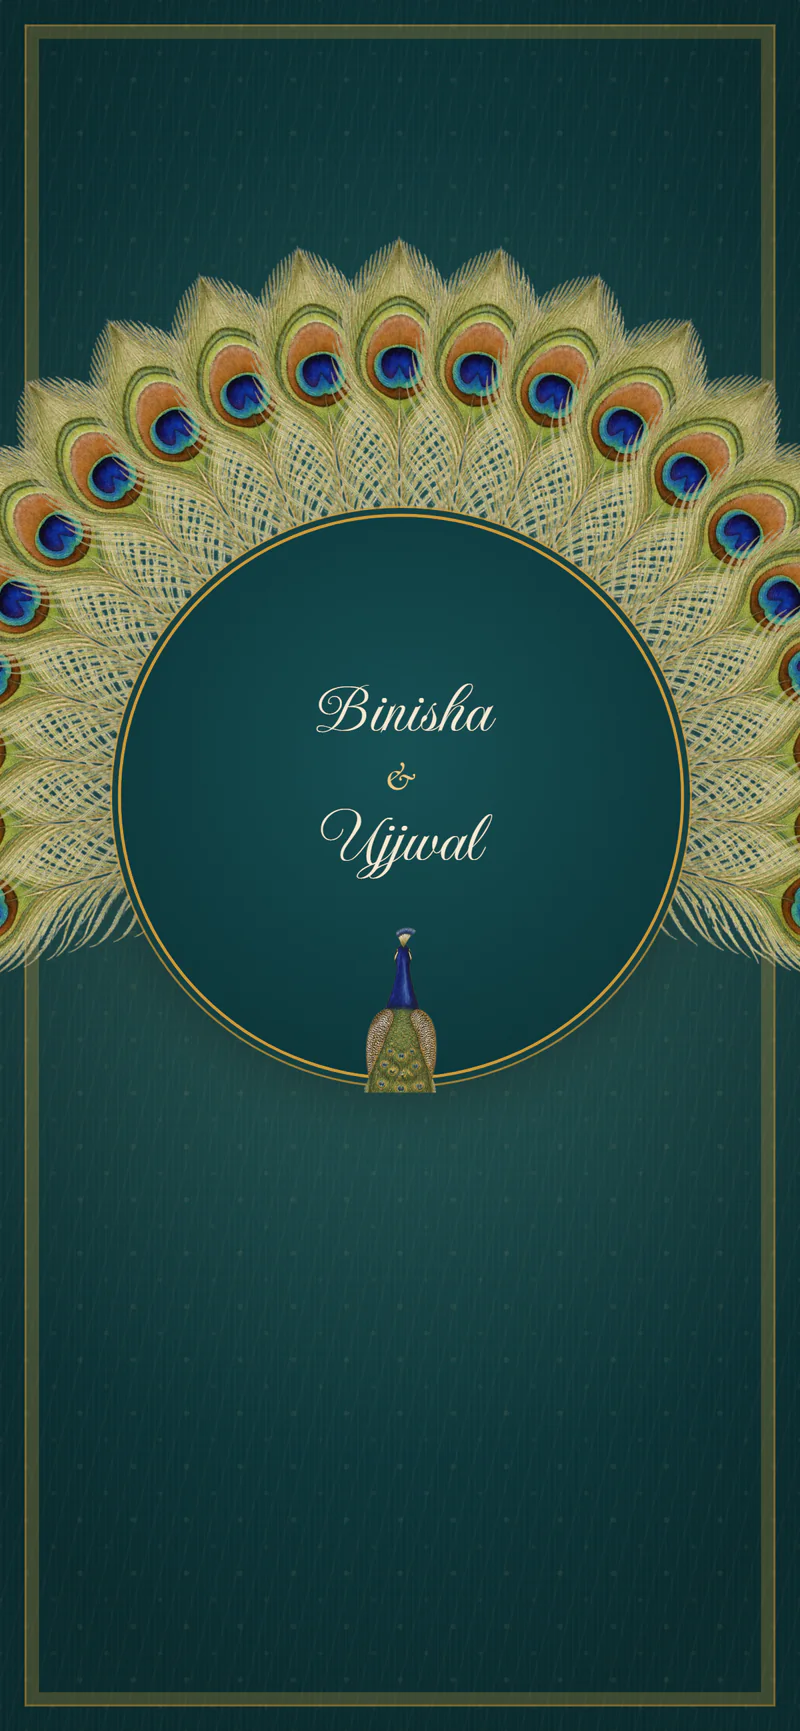
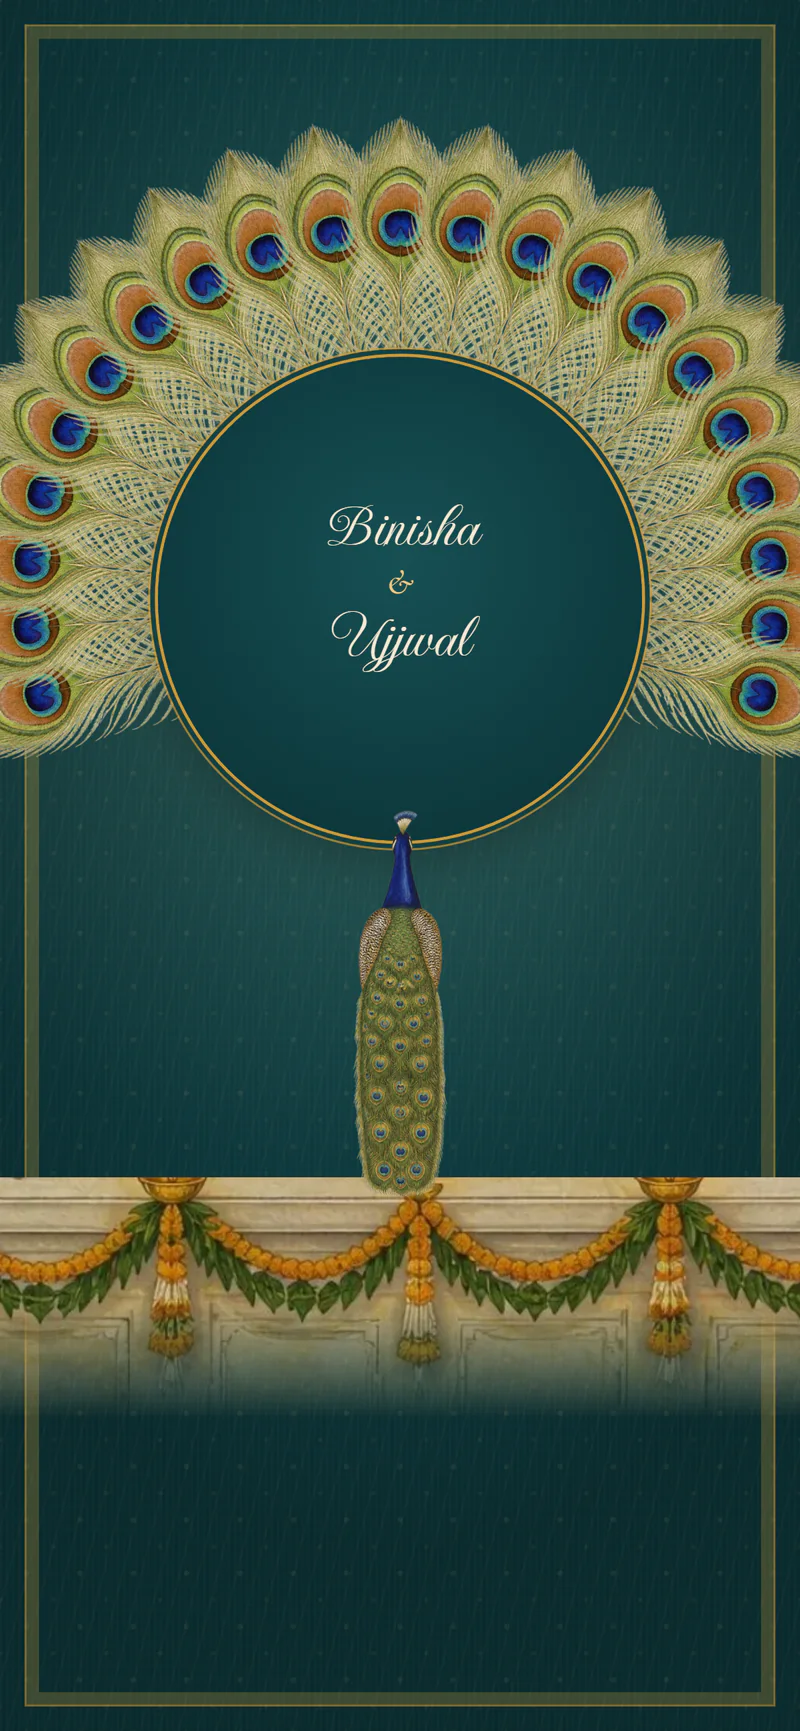
fix(kalapi): fuller phone opening and first screen, a miniature per ceremony, labels on the lower border
- Opening: fan, bird and a painted marble parapet with marigold garlands stack to fill the screen; the
  whole peacock stands on the parapet and the feathers rise from its back; a quiet "Tap the peacock" cue.
- Phones: the palace in the rain above the names on the first screen, fading into the cloth.
- Ceremony cards: a pichwai miniature per kind (haldi, mehendi, janti, wedding, reception; others get
  the palace), filling the frame; painted crops can no longer leave a gap.
- Folio labels ride on the lower border, clear of the language and menu buttons.
- theme-meta test: Kalapi is Hindu only.

diff --git a/src/themes/kalapi/main.js b/src/themes/kalapi/main.js
@@ -60,9 +60,19 @@ const cusp = (cls = '') => `<svg class="kp-cusp ${cls}" viewBox="0 0 100 130" pr
 const rule = (cls = '') => `<span class="kp-rule ${cls}" aria-hidden="true"><i></i><b></b><i></i></span>`;
 
 /** a crop of one of the paintings, centred on (cx, cy) of the picture, `z` times the window's width */
-const vignette = (n, cx, cy, z = 2.8, cls = '', flip = false) => `<span class="kp-vig ${cls}" aria-hidden="true" style="--cx:${cx};--cy:${cy};--z:${z}${flip ? ';--fx:-1' : ''}">${art(`pano-${n}`, 'pano', '(max-width: 760px) 900px, 1000px')}</span>`;
+const vignette = (n, cx0, cy, z = 2.8, cls = '', flip = false) => { const cx = Math.min(1 - 0.5 / z, Math.max(0.5 / z, cx0)); return `<span class="kp-vig ${cls}" aria-hidden="true" style="--cx:${cx};--cy:${cy};--z:${z}${flip ? ';--fx:-1' : ''}">${art(`pano-${n}`, 'pano', '(max-width: 760px) 900px, 1000px')}</span>`; };
 // a different painted detail for each ceremony's miniature (cycled)
-const VIGS = [[1, 0.5, 0.6, 2.6], [2, 0.17, 0.66, 2.6], [5, 0.55, 0.64, 2.5], [4, 0.86, 0.52, 2.6], [1, 0.14, 0.52, 2.8], [2, 0.88, 0.36, 2.8], [4, 0.22, 0.86, 2.6], [5, 0.15, 0.3, 2.8]];
+/** which ceremony is this? → its own painted miniature (ev-<kind>.webp); anything else gets the palace in the rain */
+function kindOf(e) {
+  const t = `${e.id || ''} ${e.title?.en || ''} ${e.title?.ne || ''}`.toLowerCase();
+  if (/mehe?ndi|मेहे?न्दी|henna/.test(t)) return 'mehendi';
+  if (/haldi|hardi|हल्दी|besar|बेसार|pithi/.test(t)) return 'haldi';
+  if (/recep|bhoj|भोज|रिसेप्सन|party|dinner/.test(t)) return 'reception';
+  if (/bibaha|biwaha|vivah|wedding|lagan|विवाह|बिहे|mandap|swayambar|kanyadan/.test(t)) return 'wedding';
+  if (/janti|जन्ती|baraat|barat|बरियात|procession/.test(t)) return 'janti';
+  return '';
+}
+const miniArt = (e) => { const k = kindOf(e); return k ? `<img src="${A}ev-${k}.webp" alt="" loading="lazy" decoding="async" />` : `<img class="is-generic" src="${A}pano-1-sm.webp" alt="" loading="lazy" decoding="async" />`; };
 
 // ───────── the scratch cover: a peacock-feather eye ─────────
 function paintEye(c, w, h, dpr, hint) {
@@ -128,13 +138,13 @@ function page(ctx) {
   /** a painted folio: the painting, its tag, and what sits on it (positioned in the painting's own coordinates) */
   const folio = (i, n, f, over, { id = '', label = '', cls = '' } = {}) => `<article class="kp-folio kp-folio--paint ${cls}"${id ? ` id="${id}"` : ''}${label ? ` aria-labelledby="${label}"` : ''} style="--f:${f}">
       <div class="kp-paint">${art(`pano-${n}`, 'pano', '(max-width: 760px) 1500px, 1700px', { cls: 'kp-paint__img' })}${over}</div>
-      ${tag(i)}
     </article>`;
 
   // ── first screen: the fan's crest on the cloth's border, the names ──
   const hero = `
   <section class="su-hero kp-hero" id="top" aria-label="${esc(`${c.bride.name.en} and ${c.groom.name.en}`)}">
     <div class="kp-hero__cloth" aria-hidden="true"></div>
+    <div class="kp-hero__art" aria-hidden="true"><img src="${A}hero-portrait.webp" alt="" fetchpriority="high" decoding="async" /></div>
     <div class="kp-hem kp-hem--top" aria-hidden="true"></div>
     <div class="kp-crest" aria-hidden="true"><span class="kp-root kp-root--crest">${fan('kp-fan--crest', '24px')}<span class="kp-mono su-in">${esc((c.bride.name.en || '').charAt(0))}<i>·</i>${esc((c.groom.name.en || '').charAt(0))}</span></span></div>
     <div class="kp-hero__in">
@@ -179,11 +189,10 @@ function page(ctx) {
 
   // ── III · the register: one Ragamala-style miniature per ceremony ──
   const minis = P.events.map((ev, i) => {
-    const [n, cx, cy, z] = VIGS[i % VIGS.length];
     const dress = ev.dress.colors.length || ev.dress.text?.en || ev.dress.text?.ne;
     return `<li class="kp-mini" id="ev-${esc(ev.id)}">
       <div class="kp-mini__in">
-        ${vignette(n, cx, cy, z, 'kp-mini__vig')}
+        <span class="kp-mini__vig" aria-hidden="true">${miniArt(ev.e)}</span>
         <p class="kp-mini__no" aria-hidden="true">${ROMAN[i] || i + 1}</p>
         <h3 class="kp-mini__t">${bi(ev.title)}</h3>
         <p class="kp-mini__date">${bi({ en: `${ev.ad.wd.en}, ${ev.ad.day} ${ev.ad.month.en} ${ev.ad.year}`, ne: ev.bs.month && ev.bs.year ? `${ev.ad.wd.ne}, ${ev.bs.month} ${ev.bs.day}, ${ev.bs.year}` : ev.ad.full.ne })}</p>
@@ -206,7 +215,6 @@ function page(ctx) {
         </header>
         <ol class="kp-reg__list">${minis}</ol>
       </div>
-      ${tag(2)}
     </article>` : '';
 
   // ── IV · the moonlit terrace: the countdown in the full moon ──
@@ -227,6 +235,7 @@ function page(ctx) {
       </div>` : '', { cls: 'kp-folio--end' });
 
   const folios = [f1, f2, f3, f4, f5].filter(Boolean).join(seam);
+  const tags = [0, 1, P.events.length ? 2 : -1, 3, 4].filter((i) => i >= 0).map(tag).join('');
   const plume = (k) => `<span class="kp-pl" style="--k:${k}">${art('feather', 'feather', '60px')}</span>`;
   const plumes = (cls, n) => `<div class="kp-plumes ${cls}" aria-hidden="true">${Array.from({ length: n }, (_, i) => plume(i)).join('')}</div>`;
 
@@ -238,7 +247,7 @@ function page(ctx) {
       ${plumes('kp-plumes--top', 9)}
       ${plumes('kp-plumes--bot', 9)}
     </div>
-    <div class="kp-hem kp-hem--bot" aria-hidden="true"><span class="kp-thread"></span></div>
+    <div class="kp-hem kp-hem--bot" aria-hidden="true"><span class="kp-thread"></span><div class="kp-tags">${tags}</div></div>
   </section>`;
 
   // ── the families: two facing miniature panels ──
@@ -327,7 +336,9 @@ const GATE = (ctx) => `
     <div class="kp-g__frame"></div>
     <span class="kp-g__glow"></span>
     <span class="kp-root kp-root--gate">${fan('kp-fan--gate', '(max-width: 760px) 90px, 110px')}</span>
-    <span class="kp-bird"><span class="kp-bird__in"><img class="kp-bird__train" src="${A}peacock.webp" alt="" decoding="async" /><img class="kp-bird__body" src="${A}peacock.webp" alt="" decoding="async" /></span></span>
+    <div class="kp-g__ground"><img src="${A}ground-sm.webp" srcset="${A}ground-sm.webp 1000w, ${A}ground.webp 1920w" sizes="100vw" alt="" decoding="async" /></div>
+    <span class="kp-bird"><span class="kp-bird__in"><img src="${A}peacock.webp" alt="" decoding="async" /></span></span>
+    <p class="kp-g__tap">${ctx.bi({ en: 'Tap the peacock', ne: 'मयूरलाई छुनुहोस्' })}</p>
     <div class="kp-gnames"><p class="su-names kp-names">${ctx.names('&amp;')}</p></div>
   </div>`;
 
@@ -336,12 +347,15 @@ function sizeGate() {
   const g = document.querySelector('.kp-g');
   if (!g) return;
   const vw = innerWidth; const vh = innerHeight;
-  // the fan's top stays on screen and the standing bird stays clear of the buttons (about 186px at the foot)
-  let Lf = Math.min(vw * 0.7, vh * 0.42, 440);
-  let ry = Math.min(Math.max(Lf + 36, vh * 0.46), vh - 186 - Lf * 0.815);
-  if (ry < Lf + 30) { Lf = (vh - 216) / 1.815; ry = Lf + 30; }
+  // top to bottom: the fan (its eye centred at --ry), the bird standing below it on the painted parapet (--fy = its feet),
+  // the parapet, then the buttons (about 160px). The whole stack fills the screen on any size.
+  const UI = 160; const TOP = 56; const GROUND = 100;
+  const Lf = Math.max(150, Math.min(vw * 0.66, (vh - UI - TOP - GROUND) / 2.24, 400));
+  const slack = Math.max(0, vh - UI - TOP - GROUND - 2.24 * Lf);
+  const ry = TOP + Lf + slack * 0.45;
   g.style.setProperty('--L', `${Math.round(Lf)}px`);
   g.style.setProperty('--ry', `${Math.round(ry)}px`);
+  g.style.setProperty('--fy', `${Math.round(ry + 1.24 * Lf)}px`);
 }
 
 // ───────── the cloth: vertical scroll → sideways along the pichwai ─────────
@@ -351,6 +365,7 @@ function cloth(ctx) {
   const view = C.querySelector('.kp-cloth__view');
   const track = C.querySelector('.kp-track');
   const thread = C.querySelector('.kp-thread');
+  const tagsEl = C.querySelector('.kp-tags');
   const top = C.querySelector('.kp-plumes--top');
   const bot = C.querySelector('.kp-plumes--bot');
   const body = document.body;
@@ -381,7 +396,11 @@ function cloth(ctx) {
     });
     return ok;
   };
-  const measure = () => { place(); D = Math.max(0, track.scrollWidth - innerWidth); };
+  const measure = () => {
+    place(); D = Math.max(0, track.scrollWidth - innerWidth);
+    const tg = [...tagsEl.children];
+    track.querySelectorAll(':scope > .kp-folio').forEach((f, i) => { if (tg[i]) tg[i].style.left = `${Math.round(f.offsetLeft + f.offsetWidth / 2)}px`; });
+  };
 
   function build() {
     gc?.revert(); gc = null; st = null;
@@ -393,6 +412,7 @@ function cloth(ctx) {
     gc = gsap.context(() => {
       measure();
       const setThread = gsap.quickSetter(thread, 'scaleX');
+      const setTags = gsap.quickSetter(tagsEl, 'x', 'px');
       const par = wide();
       const setTop = par ? gsap.quickSetter(top, 'x', 'px') : null;
       const setBot = par ? gsap.quickSetter(bot, 'x', 'px') : null;
@@ -403,7 +423,7 @@ function cloth(ctx) {
           onRefreshInit: measure,
           onUpdate(self) {
             const p = self.progress;
-            setThread(p);
+            setThread(p); setTags(-p * D);
             if (par) { setTop(-p * D * 0.9); setBot(-p * D * 1.1); }
           },
         },
@@ -495,10 +515,10 @@ const T = {
     const names = q('.kp-gnames .kp-names');
     const t0 = 0.2;
     // the train lifts: the folded train gathers up into the tail root as the feathers rise out of it
-    tl.to(q('.kp-bird__train'), { scaleY: 0.18, opacity: 0, duration: 0.75, ease: 'power2.in' }, t0);
+    tl.to(q('.kp-g__tap'), { opacity: 0, duration: 0.3, ease: 'power1.out' }, 0);
     // 21 feathers rotate out from the tail root, centre first, 60 ms apart to each side
     const mid = (N - 1) / 2;
-    const rise = () => parseFloat(getComputedStyle(g).getPropertyValue('--L')) * 0.45;
+    const rise = () => parseFloat(getComputedStyle(g).getPropertyValue('--L')) * 0.76; // from the bird's back
     fs.forEach((f, i) => tl.fromTo(f, { y: rise }, { y: 0, rotation: angle(i), scale: 1, opacity: 1, duration: 0.85, ease: 'back.out(1.2)' }, t0 + 0.1 + Math.abs(i - mid) * 0.06));
     // the train rattles once, as a dancing peacock's does
     tl.to(root, { keyframes: [{ rotation: 1.4, duration: 0.12, ease: 'sine.out' }, { rotation: -1.1, duration: 0.14, ease: 'sine.inOut' }, { rotation: 0.6, duration: 0.12, ease: 'sine.inOut' }, { rotation: 0, duration: 0.16, ease: 'sine.out' }] }, 1.3);
@@ -530,7 +550,7 @@ const T = {
     const bird = q('.kp-bird__in');
     tl.to(bird, { y: () => -innerHeight * 0.06, scale: 0.62, opacity: 0, duration: 1.5, ease: 'power1.in' }, tL - 0.05);
     tl.to(bird, { keyframes: [{ rotation: -3, duration: 0.18 }, { rotation: 3, duration: 0.3 }, { rotation: -3, duration: 0.3 }, { rotation: 2, duration: 0.3 }, { rotation: 0, duration: 0.2 }], ease: 'sine.inOut' }, tL - 0.05);
-    tl.to([q('.kp-g__bg'), q('.kp-g__frame'), q('.kp-g__glow')], { opacity: 0, duration: 0.7, ease: 'power1.inOut' }, tL + 0.75);
+    tl.to([q('.kp-g__bg'), q('.kp-g__frame'), q('.kp-g__glow'), q('.kp-g__ground')], { opacity: 0, duration: 0.7, ease: 'power1.inOut' }, tL + 0.75);
     tl.set(['.kp-hero .kp-names', '.kp-hero .kp-crest'], { opacity: 1 }, tL + 1.2);
     tl.to([root, q('.kp-gnames')], { opacity: 0, duration: 0.25, ease: 'none' }, tL + 1.21);
     return tL + 1.0;
@@ -547,6 +567,9 @@ const T = {
     }
     cloth(ctx);
   },
+
+  // a tap on the peacock (anywhere on the scene) opens, like the button
+  gateTap(ctx, go) { document.querySelector('.kp-g')?.addEventListener('click', go, { once: true }); },
 
   scratch: { paint: paintEye },
 };

diff --git a/src/themes/kalapi/kalapi.css b/src/themes/kalapi/kalapi.css
@@ -88,12 +88,20 @@ body.theme-kalapi {
 .kp-g__glow { position: absolute; left: 50%; top: var(--ry); width: calc(var(--L) * 2.4); aspect-ratio: 1; translate: -50% -50%; border-radius: 50%;
   background: radial-gradient(closest-side, rgba(232, 201, 135, 0.18), rgba(232, 201, 135, 0.06) 55%, rgba(232, 201, 135, 0)); opacity: 0.55; transform: scale(0.7); pointer-events: none; }
 .kp-root--gate { top: var(--ry); }
-.kp-bird { position: absolute; left: 50%; top: var(--ry); width: 0; height: 0; }
-.kp-bird__in { position: absolute; width: calc(var(--L) * 0.58 * 0.2442); height: calc(var(--L) * 0.58); left: calc(var(--L) * -0.0708); top: calc(var(--L) * 0.235); transform-origin: 50% 40%; }
+.kp-g { cursor: pointer; }
+.kp-bird { position: absolute; left: 50%; top: var(--fy); width: 0; height: 0; }
+.kp-bird__in { position: absolute; width: calc(var(--L) * 0.8 * 0.2442); height: calc(var(--L) * 0.8); left: calc(var(--L) * -0.0977); top: calc(var(--L) * -0.8); transform-origin: 50% 100%; }
 .kp-bird__in img { position: absolute; inset: 0; display: block; width: 100%; height: 100%; max-width: none; }
-.kp-bird__body { clip-path: inset(0 0 49% 0); }
-.kp-bird__train { clip-path: inset(40% 0 0 0); transform-origin: 50% 40%; }
-.kp-g.is-fanned .kp-bird__train { opacity: 0; }
+/* the bird stands on the painted terrace parapet (garlands and diyas), which fades into the cloth above the buttons */
+.kp-g__ground { position: absolute; left: 0; right: 0; top: calc(var(--fy) - 10px); height: 118px; pointer-events: none;
+  -webkit-mask: linear-gradient(#000 0 52%, transparent 100%); mask: linear-gradient(#000 0 52%, transparent 100%); }
+.kp-g__ground img { display: block; width: 100%; height: 100%; object-fit: cover; object-position: 50% 0; }
+.kp-g__tap { position: absolute; left: 50%; top: calc(var(--ry) + var(--L) * 0.1); translate: -50% 0; margin: 0; display: flex; align-items: center; gap: 12px; white-space: nowrap;
+  font: 600 11px/1 var(--su-f-body); letter-spacing: 0.3em; text-transform: uppercase; color: var(--kp-gold-hi); opacity: 0.8; pointer-events: none; }
+.kp-g__tap .l-ne { font-size: 14px; }
+.kp-g__tap::before, .kp-g__tap::after { content: ''; width: 28px; height: 1px; background: linear-gradient(90deg, transparent, var(--kp-gold)); }
+.kp-g__tap::after { background: linear-gradient(90deg, var(--kp-gold), transparent); }
+.kp-g.is-fanned .kp-g__tap { display: none; }
 .kp-gnames { position: absolute; left: 50%; top: calc(var(--ry) - var(--L) * 0.03); translate: -50% -50%; font-size: calc(var(--L) * 0.128); text-align: center; pointer-events: none; }
 body.is-opening .kp-g :is(.kp-f, .kp-root, .kp-bird__in, .kp-gnames) { will-change: transform, opacity; }
 .theme-kalapi .su-gate__ui { color: var(--kp-ivory); }
@@ -112,6 +120,15 @@ body.is-opening .kp-g :is(.kp-f, .kp-root, .kp-bird__in, .kp-gnames) { will-chan
 .theme-kalapi .su-hero.kp-hero { display: block; min-height: 100svh; place-items: normal; }
 .kp-hero__cloth { position: absolute; inset: 0; z-index: -1; background: radial-gradient(80% 60% at 50% 44%, rgba(30, 106, 90, 0.38), rgba(10, 43, 46, 0) 70%), radial-gradient(120% 90% at 50% 120%, rgba(5, 25, 27, 0.6), transparent 60%); }
 .kp-hero > .kp-hem--top { position: absolute; left: 0; right: 0; top: 0; z-index: 2; }
+/* phones: the palace in the rain above the names, fading into the cloth (the crop stops above the garlands) */
+.kp-hero__art { display: none; }
+@media (max-width: 760px) {
+  .kp-hero__art { display: block; position: absolute; left: 0; right: 0; top: var(--hem); height: 44svh; z-index: 0; overflow: hidden; }
+  .kp-hero__art img { display: block; width: 100%; height: 100%; object-fit: cover; object-position: 50% 100%; }
+  .kp-hero__art::after { content: ''; position: absolute; inset: 0; background: linear-gradient(180deg, rgba(10, 43, 46, 0.45) 0%, rgba(10, 43, 46, 0) 20%, rgba(15, 61, 65, 0) 62%, rgba(15, 61, 65, 0.88) 90%, var(--kp-teal) 100%); }
+  .theme-kalapi .kp-hero__in { justify-content: flex-start; padding-top: calc(var(--hem) + 42svh); padding-bottom: 72px; }
+  .kp-hero .kp-names { font-size: clamp(50px, 13.6vw, 64px); }
+}
 .kp-crest { --L: clamp(58px, 9svh, 84px); position: absolute; left: 0; right: 0; top: calc(var(--hem) + var(--L) * 0.62); height: 0; z-index: 3; }
 .kp-crest .kp-root { top: 0; }
 .kp-mono { position: absolute; left: 0; top: 0; translate: -50% -52%; display: flex; align-items: baseline; gap: 0.18em; font: 500 calc(var(--L) * 0.3)/1 var(--su-f-display); color: var(--kp-gold-hi); letter-spacing: 0.02em; white-space: nowrap; }
@@ -146,7 +163,8 @@ body.is-opening .kp-g :is(.kp-f, .kp-root, .kp-bird__in, .kp-gnames) { will-chan
 .kp-paint__img { position: absolute; inset: 0; display: block; width: 100%; height: 100%; max-width: none; }
 .kp-over { position: absolute; z-index: 2; left: calc(var(--ox) * 100%); top: calc(var(--oy) * 100%); translate: -50% -50%; }
 .kp-over > * { transform-origin: 50% 50%; }
-.kp-tag { position: absolute; z-index: 3; left: 50%; top: 10px; translate: -50% 0; display: flex; align-items: center; gap: 8px; margin: 0; padding: 4px 12px 4px 4px; white-space: nowrap;
+.kp-tags { position: absolute; left: 0; top: 50%; width: 0; height: 0; z-index: 2; }
+.kp-tag { position: absolute; left: 0; top: 0; translate: -50% -50%; display: flex; align-items: center; gap: 8px; margin: 0; padding: 4px 12px 4px 4px; white-space: nowrap;
   background: rgba(243, 234, 214, 0.95); color: var(--kp-ink); font: 600 10.5px/1 var(--su-f-body); letter-spacing: 0.2em; text-transform: uppercase; box-shadow: 0 4px 14px rgba(0, 0, 0, 0.25); }
 .kp-tag b { display: grid; place-items: center; min-width: 22px; height: 22px; padding: 0 4px; background: var(--kp-red); color: var(--kp-gold-hi); font: 600 13px/1 var(--su-f-display); letter-spacing: 0.04em; }
 .kp-tag .l-ne { font-size: 13px; }
@@ -202,7 +220,9 @@ body.is-opening .kp-g :is(.kp-f, .kp-root, .kp-bird__in, .kp-gnames) { will-chan
 .kp-mini { flex: none; width: min(76vw, 300px); }
 .kp-mini__in { position: relative; box-sizing: border-box; padding: 10px 10px 18px; text-align: center; color: var(--kp-ink); background: var(--kp-ivory); border: 6px solid var(--kp-red);
   box-shadow: inset 0 0 0 2px var(--kp-ivory), inset 0 0 0 3px var(--kp-gold), 0 18px 40px rgba(5, 20, 22, 0.42); }
-.kp-mini__vig { aspect-ratio: 16 / 9.5; box-shadow: 0 0 0 1px var(--kp-gold); }
+.kp-mini__vig { display: block; aspect-ratio: 16 / 9.5; overflow: hidden; box-shadow: 0 0 0 1px var(--kp-gold); }
+.kp-mini__vig img { display: block; width: 100%; height: 100%; object-fit: cover; object-position: 50% 45%; }
+.kp-mini__vig img.is-generic { object-position: 50% 60%; }
 .kp-mini__no { width: 34px; height: 34px; margin: -18px auto 4px; position: relative; display: grid; place-items: center; border-radius: 50%; background: var(--kp-red); color: var(--kp-gold-hi);
   box-shadow: 0 0 0 2px var(--kp-ivory), 0 0 0 3px var(--kp-gold); font: 600 14px/1 var(--su-f-display); letter-spacing: 0.04em; }
 .kp-mini__t { margin: 2px 8px 0; font: 600 25px/1.15 var(--su-f-display); color: var(--kp-teal); text-wrap: balance; }
@@ -261,7 +281,7 @@ body.is-opening .kp-g :is(.kp-f, .kp-root, .kp-bird__in, .kp-gnames) { will-chan
 .kp-flat .kp-over > * { scale: none !important; }
 .kp-flat .kp-moon { width: min(80vw, 360px); }
 .kp-flat .kp-arch__pic img { max-height: 64svh; }
-.kp-flat .kp-tag { display: none; }
+.kp-flat .kp-tags { display: none; }
 .kp-flat .kp-seam { display: block; width: 100%; height: 18px; }
 .kp-flat .kp-seam::before { -webkit-mask: var(--kp-hem-motif) 0 50% / auto 100% repeat-x; mask: var(--kp-hem-motif) 0 50% / auto 100% repeat-x; }
 .kp-flat .kp-seam i { width: 24px; height: 30px; }

diff --git a/server/test/theme-meta.test.js b/server/test/theme-meta.test.js
@@ -70,7 +70,7 @@ test('faith mapping: explicit per design, Hindu art stays Hindu, the site lists 
   }
   const has = (f) => Object.keys(man).filter((s) => man[s].includes(f)).sort();
   // Ganesh, Om, kalash, sindoor, Hindu rites or Hindu-dress couples in the art: Hindu only
-  const hinduArt = ['agni', 'bagaicha', 'chitra', 'dhoka', 'durbar', 'ghar', 'gurans', 'hariyo', 'janti', 'laali', 'mahal', 'mala', 'mandap',
+  const hinduArt = ['agni', 'bagaicha', 'chitra', 'dhoka', 'durbar', 'ghar', 'gurans', 'hariyo', 'janti', 'kalapi', 'laali', 'mahal', 'mala', 'mandap',
     'mangal', 'mehendi', 'nimantrana', 'pardaa', 'rajdwar', 'rangoli', 'shree', 'sindoor', 'swayambar'];
   for (const s of hinduArt) assert.deepEqual(man[s], ['hindu'], `${s} is Hindu only`);
   assert.deepEqual(has('christian'), ['amalfi', 'blush-roses', 'dhaka', 'garden-party', 'himal', 'letterpress', 'olive-grove', 'rose-arch', 'tuscany', 'wax-seal', 'wildflower']);

diff --git a/src/themes/kalapi/README.md b/src/themes/kalapi/README.md
@@ -16,8 +16,9 @@ red and ivory. Type: Cormorant Upright (Latin display), Imperial Script (names o
 Mukta (all reading text and every Nepali digit; `locl` stays off through base.css).
 
 ## Opening: the peacock fans its tail (`T.open`)
-Dark teal cloth, a double gold rule, one peacock seen from behind with its train folded. Tap: the train gathers up and 21
-feathers rise out of it and rotate into the fan (centre first, 60 ms apart to each side), the train rattles once, the plain
+Dark teal cloth, a double gold rule, one peacock seen from behind with its train folded, standing on a painted marble
+parapet hung with marigold garlands; a quiet "Tap the peacock" cue (the whole scene opens on tap). Tap: 21 feathers rise
+out of its back and rotate into the fan (centre first, 60 ms apart to each side), the train rattles once, the plain
 teal eye of cloth opens in the middle and the names write themselves in (each line a transform-only wipe). Then the fan lifts
 and shrinks into the crest on the first screen's red-and-gold border, the names settle (FLIP) into the first screen and the
 bird walks away into the dark. About 4 s. `sizeGate()` keeps the fan on screen and the bird clear of the buttons on any size.
@@ -30,7 +31,7 @@ cusped jharokha arch, photo whole), III the register: one Ragamala-style miniatu
 date A.D. and B.S., time, venue and map, dress, order of the day as a slip), IV the moonlit terrace (the countdown in the
 full moon), V the rain-cloud band. Each painting is placed by its folio's focus (`--f`) and never leaves a gap; cartouches
 sit in the painting's own coordinates (`--ox`, `--oy`), always on sky, cloud or plain cloth, never on flowers. A gold thread
-on the lower border shows the way along; on wide screens feathers drift along both borders at 0.9x and 1.1x. Too-tall
+on the lower border shows the way along, and each folio's label rides on that border (clear of the buttons at the top); on wide screens feathers drift along both borders at 0.9x and 1.1x. Too-tall
 content is scaled a little; more, a screen under 540 px, reduced motion or `?still` gives the flat cloth (folios stacked,
 each painting whole with its cartouche under it). Keyboard focus off to the side brings its folio to the middle.
 
@@ -42,5 +43,8 @@ cloth (lightbox); the reply on an ivory cloth cartouche over a lotus spray; the 
 ## Art (all Canva AI, made for this theme; Canva design "Kalapi art board")
 - `public/themes/kalapi/art/pano-1|2|4|5(.webp|-sm.webp)`: the four painted folios (1920 and 1100 wide).
 - `feather`, `peacock` (seen from behind, train folded), `lotus`: cut-outs with transparency.
+- `ev-haldi|mehendi|janti|wedding|reception.webp`: one pichwai miniature per kind of ceremony (`kindOf()` in main.js; any
+  other ceremony shows the palace in the rain).
+- `hero-portrait.webp` (phone first screen) and `ground(-sm).webp` (the parapet under the gate's peacock): crops of pano-1.
 - Drawn in code: the brocade hems and seams (SVG masks), the cusped arch, the moon, the feather-eye scratch cover.
 - `public/themes/kalapi/thumb.jpg` (1200x900, the fan open), `gate.jpg`, `hero.jpg` (480x720).
